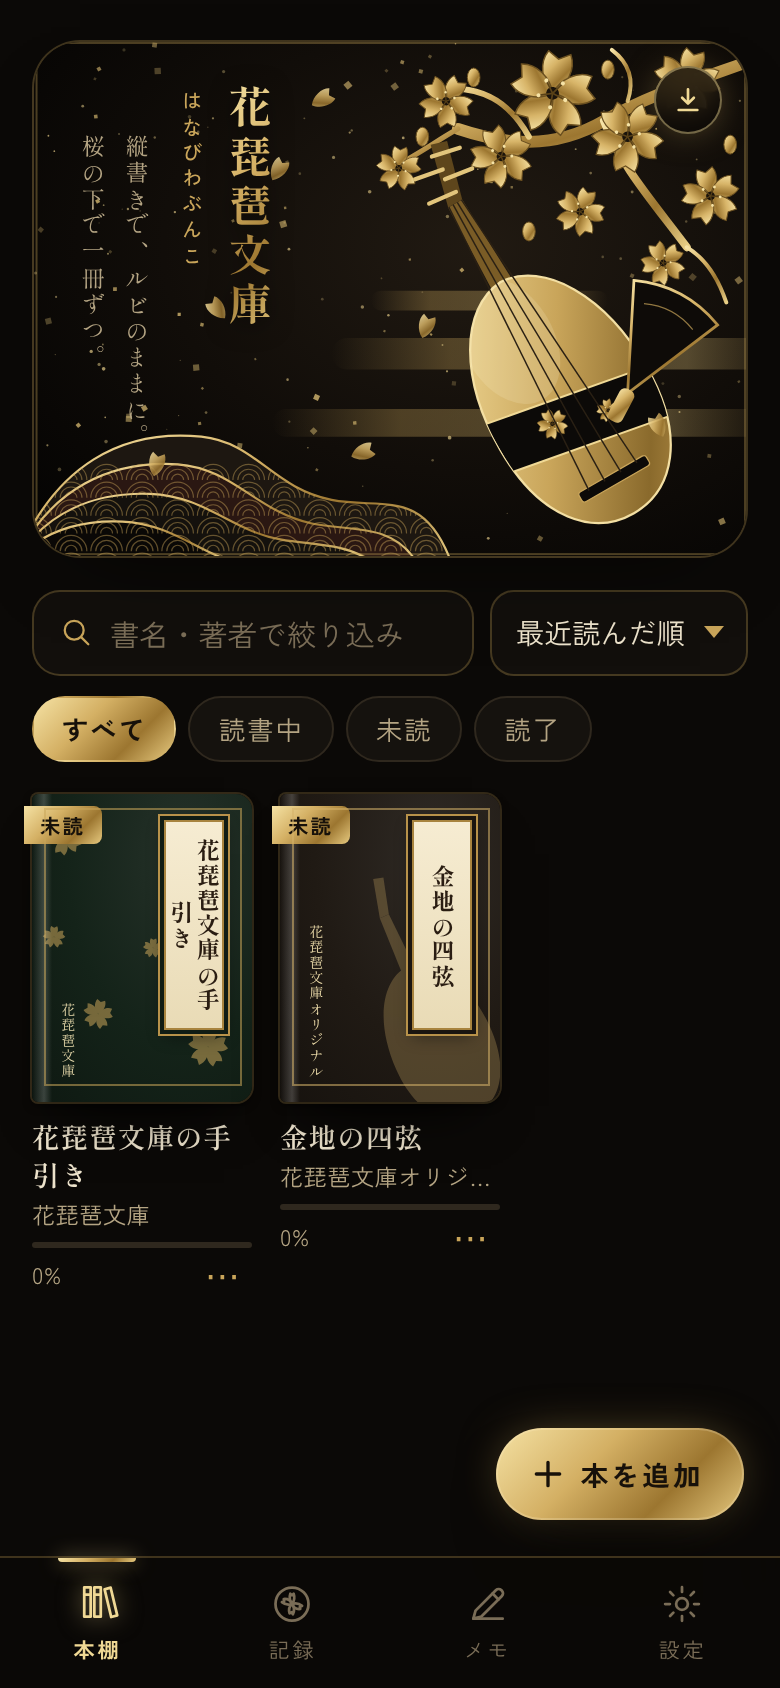
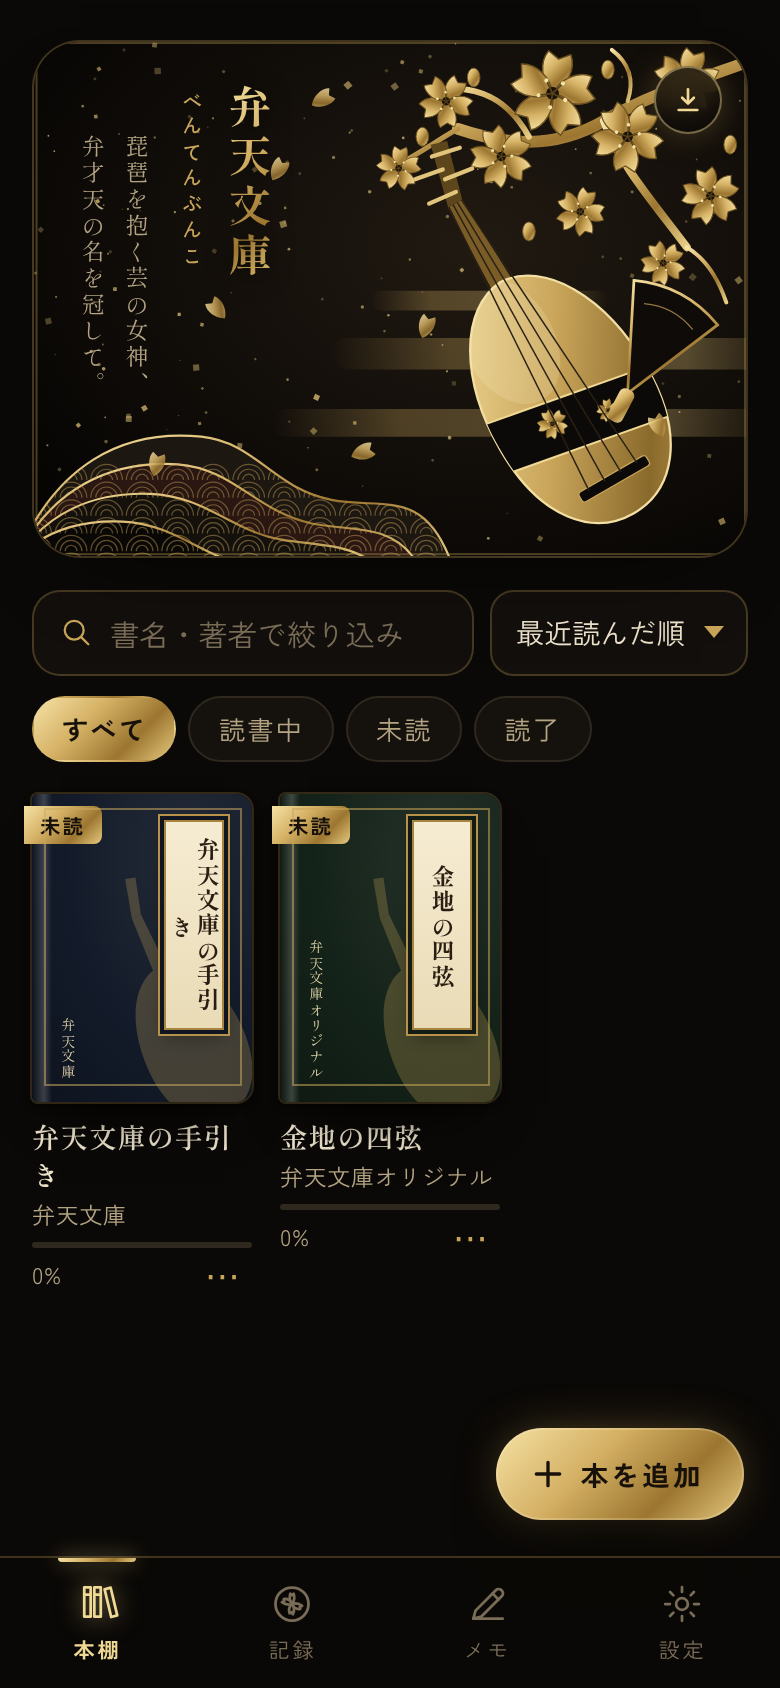
アプリ名を弁才天にちなんだ「弁天文庫」に変更
琵琶を抱く芸能と学問の女神・弁才天から。表示名・マニフェスト・付属の本・説明を更新し、
旧名で保存済みの付属の本の書名も自動で新しい名前にそろえる。保存データの内部名は変えない。

Claude-Session: https://claude.ai/code/session_013bD7vHSvnvCdFboDHAp8ex

diff --git a/biwa/js/app.js b/biwa/js/app.js
@@ -190,11 +190,26 @@ async function importFiles(files) {
   if (added) { closeSheet(); go("library"); }
 }
 
+// 旧名「花琵琶文庫」で入れた付属の本を新しい名前にそろえる
+async function migrateNames() {
+  const OLD = "\u82b1\u7435\u7436\u6587\u5eab"; // 花琵琶文庫
+  for (const b of books) {
+    if (!b.builtin) continue;
+    const t = b.title.replace(OLD, "弁天文庫");
+    const a = (b.author || "").replace(OLD, "弁天文庫");
+    if (t !== b.title || a !== b.author) {
+      b.title = t;
+      b.author = a;
+      await db.putBook(b);
+    }
+  }
+}
+
 async function seedBooks() {
   if (localStorage.getItem("hb.seeded")) return;
   const story = parseAozora(SAMPLE_STORY, "金地の四弦.txt");
   await saveParsed(story, { builtin: true, added: Date.now() - 1000 });
-  const guide = parseAozora(SAMPLE_GUIDE, "花琵琶文庫の手引き.txt");
+  const guide = parseAozora(SAMPLE_GUIDE, "弁天文庫の手引き.txt");
   await saveParsed(guide, { builtin: true, added: Date.now() });
   localStorage.setItem("hb.seeded", "1");
 }
@@ -1291,7 +1306,7 @@ function download(name, text, type = "text/plain") {
 function exportNotes(list) {
   if (!list.length) { toast("書き出すメモがありません"); return; }
   const colors = { 1: "桜", 2: "山吹", 3: "若草", 4: "藤" };
-  let md = `# 花琵琶文庫 マーカーとメモ\n\n書き出した日：${fmtDate(Date.now())}\n\n`;
+  let md = `# 弁天文庫 マーカーとメモ\n\n書き出した日：${fmtDate(Date.now())}\n\n`;
   for (const b of list) {
     md += `## ${b.title}${b.author ? ` / ${b.author}` : ""}\n\n`;
     for (const h of [...b.highlights].sort((x, y) => x.sec - y.sec || x.start - y.start)) {
@@ -1301,7 +1316,7 @@ function exportNotes(list) {
       md += "\n";
     }
   }
-  download(`花琵琶文庫_メモ_${todayKey()}.md`, md, "text/markdown");
+  download(`弁天文庫_メモ_${todayKey()}.md`, md, "text/markdown");
   toast("メモを書き出しました");
 }
 
@@ -1362,7 +1377,7 @@ function openInstallGuide() {
   const body = openSheet("アプリをインストール", `
     <div class="install-hero">
       <img src="icons/icon-192.png" alt="" />
-      <p class="muted">花琵琶文庫はインストールできるWebアプリです。<b class="installed-note">無料・登録不要</b>で、ストアを通さずに数秒で入ります。</p>
+      <p class="muted">弁天文庫はインストールできるWebアプリです。<b class="installed-note">無料・登録不要</b>で、ストアを通さずに数秒で入ります。</p>
     </div>
     ${installEvt ? '<button class="btn btn-primary full" id="doInstall">いますぐインストール</button>' : ""}
     <ol class="install-steps">${steps.map((t) => `<li>${t}</li>`).join("")}</ol>
@@ -1393,7 +1408,7 @@ async function renderSettings() {
   $("#settingsBody").innerHTML = `
     <section class="card">
       <h3 class="card-title">使い方</h3>
-      <p class="muted">はじめての方は、本棚の『花琵琶文庫の手引き』をどうぞ。読みながら操作を覚えられます。</p>
+      <p class="muted">はじめての方は、本棚の『弁天文庫の手引き』をどうぞ。読みながら操作を覚えられます。</p>
       <ul class="howto">
         <li><b>ページをめくる</b>：縦書きは左をタップで次へ、横書きは右をタップで次へ。スワイプ・矢印キー・ホイールも使えます。</li>
         <li><b>メニュー</b>：画面の真ん中をタップ。</li>
@@ -1423,13 +1438,13 @@ async function renderSettings() {
       <input type="file" id="bkFile" accept=".json,application/json" hidden />
     </section>
     <section class="card about">
-      <h3 class="card-title">花琵琶文庫について</h3>
+      <h3 class="card-title">弁天文庫について</h3>
       <p>完全無料・広告なし・登録不要の読書アプリです。通信はフォントの読み込みだけで、読み込んだ本やメモが外へ送られることはありません。</p>
       <p>金地に桜と琵琶の絵、表紙の文様、付属の小説『金地の四弦』と手引きは、すべてこのアプリのための書き下ろしです。</p>
       <p class="muted">書体：しっぽり明朝・Zen オールド明朝・Zen 丸ゴシック・BIZ UDPゴシック・Klee One（いずれも SIL Open Font License）</p>
     </section>`;
   $("#openGuide").onclick = () => {
-    const g = books.find((b) => b.title === "花琵琶文庫の手引き");
+    const g = books.find((b) => b.title === "弁天文庫の手引き");
     if (g) openBook(g.id); else toast("手引きが見つかりません。「付属の本をもう一度入れる」をお試しください。");
   };
   $("#setInstall")?.addEventListener("click", installApp);
@@ -1462,14 +1477,14 @@ async function exportBackup() {
     books,
     contents: withBooks ? await db.allContents() : [],
   };
-  download(`花琵琶文庫_バックアップ_${todayKey()}.json`, JSON.stringify(data), "application/json");
+  download(`弁天文庫_バックアップ_${todayKey()}.json`, JSON.stringify(data), "application/json");
   toast("バックアップを書き出しました");
 }
 
 async function importBackup(file) {
   try {
     const data = JSON.parse(await file.text());
-    if (data.app !== "hanabiwa-bunko") throw new Error("花琵琶文庫のバックアップではありません");
+    if (data.app !== "hanabiwa-bunko") throw new Error("弁天文庫のバックアップではありません");
     const contents = new Map((data.contents || []).map((c) => [c.id, c]));
     let n = 0;
     for (const b of data.books || []) {
@@ -1573,6 +1588,7 @@ async function init() {
   requestPersist();
   try {
     await loadBooks();
+    await migrateNames();
     await seedBooks();
   } catch (e) {
     console.error(e);

diff --git a/biwa/js/samples.js b/biwa/js/samples.js
@@ -2,7 +2,7 @@
 // 青空文庫形式の記法（ルビ・傍点・見出し）で書いてあり、読み込みの見本も兼ねている。
 
 export const SAMPLE_STORY = `金地の四弦
-花琵琶文庫オリジナル
+弁天文庫オリジナル
 -------------------------------------------------------
 【テキスト中に現れる記号について】
 
@@ -206,12 +206,12 @@ export const SAMPLE_STORY = `金地の四弦
 
 ［＃地付き］（了）
 
-底本：花琵琶文庫のための書き下ろし
-※この作品は、花琵琶文庫に収録された完全オリジナルの短編です。登場する人物・団体・作品はすべて架空のものです。
+底本：弁天文庫のための書き下ろし
+※この作品は、弁天文庫に収録された完全オリジナルの短編です。登場する人物・団体・作品はすべて架空のものです。
 `;
 
-export const SAMPLE_GUIDE = `花琵琶文庫の手引き
-花琵琶文庫
+export const SAMPLE_GUIDE = `弁天文庫の手引き
+弁天文庫
 -------------------------------------------------------
 【テキスト中に現れる記号について】
 
@@ -221,8 +221,8 @@ export const SAMPLE_GUIDE = `花琵琶文庫の手引き
 
 ［＃３字下げ］はじめに［＃「はじめに」は中見出し］
 
-　ようこそ、｜花琵琶文庫《はなびわぶんこ》へ。
-　金屏風の前で琵琶を弾く人のように、ゆっくり一冊と向き合うための読書アプリです。広告はありません。登録もいりません。読み込んだ本や書き込んだメモは、すべてこの端末の中だけ［＃「この端末の中だけ」に傍点］に保存され、どこにも送られません。
+　ようこそ、｜弁天文庫《べんてんぶんこ》へ。
+　名前は、琵琶を抱く芸能と学問の女神、｜弁才天《べんざいてん》から。黒漆に金の蒔絵の前で琵琶を弾く人のように、ゆっくり一冊と向き合うための読書アプリです。広告はありません。登録もいりません。読み込んだ本や書き込んだメモは、すべてこの端末の中だけ［＃「この端末の中だけ」に傍点］に保存され、どこにも送られません。
 　この手引きも、本と同じように読めます。画面の左右をタップすると、ページがめくれます。
 
 ［＃３字下げ］本を入れる［＃「本を入れる」は中見出し］
@@ -248,7 +248,7 @@ export const SAMPLE_GUIDE = `花琵琶文庫の手引き
 ［＃３字下げ］表示を整える［＃「表示を整える」は中見出し］
 
 　メニューの「表示」から、縦書き・横書き、ページめくり・スクロール、書体、文字の大きさ、行間、字間、余白、色、明るさを変えられます。
-　色は「金屏風」「生成り」「桜」「藤」「夜桜」「墨」の六つ。夜は「夜桜」か「墨」がおすすめです。
+　色は「漆」「金屏風」「生成り」「桜」「藤」「夜桜」「墨」の七つ。はじめは黒漆に金の「漆」です。
 　縦書きでは、二桁までの数字や「!?」が自動で｜縦中横《たてちゅうよこ》になります。たとえば、12月25日。
 
 ［＃３字下げ］マーカーとメモ、栞［＃「マーカーとメモ、栞」は中見出し］
@@ -270,9 +270,9 @@ export const SAMPLE_GUIDE = `花琵琶文庫の手引き
 ［＃３字下げ］データとプライバシー［＃「データとプライバシー」は中見出し］
 
 　本、栞、マーカー、記録は、すべてこの端末のブラウザの中に保存されます。機種変更のときは「設定」から書き出し（バックアップ）を作って、新しい端末で読み込んでください。
-　ホーム画面に追加すると、電波のない場所でも読めます。
+　本棚の右上の「アプリをインストール」から、端末にアプリとして入れられます。ホーム画面から開けて、電波のない場所でも読めます。
 
 ［＃地付き］よい読書を。
 
-底本：花琵琶文庫のための書き下ろし
+底本：弁天文庫のための書き下ろし
 `;

diff --git a/index.html b/index.html
@@ -3,8 +3,8 @@
 <head>
 <meta charset="UTF-8" />
 <meta name="viewport" content="width=device-width, initial-scale=1, viewport-fit=cover, maximum-scale=1" />
-<title>和風アプリ集 - 京の家計帖 / つみたての桜 / 栞PDF / ブル手帖 / 志野図鑑 / つるん団子 / かさね札 / 銀ぶらIQテスト / QR早見帖 / うつし鏡 / 免許みちしるべ / 信州まちしるべ / 花琵琶文庫</title>
-<meta name="description" content="和風・水彩画風デザインのアプリ集。京の家計帖（家計簿）、つみたての桜（新NISAシミュレーター）、栞PDF（無料PDF編集）、ブル手帖（ブルドッグと暮らす記録アプリ）、志野図鑑（志野焼の歴史・名品がわかる図鑑アプリ）、つるん団子（落ち物パズルゲーム）、かさね札（クロンダイク・ソリティア）、銀ぶらIQテスト（銀座トリビア＆ひっかけクイズ）、QR早見帖（無料QRコードスキャナー）、うつし鏡（顔年齢・肌年齢・顔タイプ診断）、免許みちしるべ（自動車免許の学科問題・標識・教習記録）、信州まちしるべ（長野県77市町村の魅力・名物・美術館・道の駅・ご当地そば・住民の人柄）、花琵琶文庫（縦書き・ルビ対応の読書アプリ）を選んで開けます。" />
+<title>和風アプリ集 - 京の家計帖 / つみたての桜 / 栞PDF / ブル手帖 / 志野図鑑 / つるん団子 / かさね札 / 銀ぶらIQテスト / QR早見帖 / うつし鏡 / 免許みちしるべ / 信州まちしるべ / 弁天文庫</title>
+<meta name="description" content="和風・水彩画風デザインのアプリ集。京の家計帖（家計簿）、つみたての桜（新NISAシミュレーター）、栞PDF（無料PDF編集）、ブル手帖（ブルドッグと暮らす記録アプリ）、志野図鑑（志野焼の歴史・名品がわかる図鑑アプリ）、つるん団子（落ち物パズルゲーム）、かさね札（クロンダイク・ソリティア）、銀ぶらIQテスト（銀座トリビア＆ひっかけクイズ）、QR早見帖（無料QRコードスキャナー）、うつし鏡（顔年齢・肌年齢・顔タイプ診断）、免許みちしるべ（自動車免許の学科問題・標識・教習記録）、信州まちしるべ（長野県77市町村の魅力・名物・美術館・道の駅・ご当地そば・住民の人柄）、弁天文庫（縦書き・ルビ対応の読書アプリ）を選んで開けます。" />
 <meta name="theme-color" content="#f6efe1" media="(prefers-color-scheme: light)" />
 <meta name="theme-color" content="#211d19" media="(prefers-color-scheme: dark)" />
 <link rel="icon" type="image/png" sizes="32x32" href="nisa/icons/favicon-32.png" />
@@ -246,7 +246,7 @@
     <a class="app-card" href="./biwa/">
       <span class="app-emblem biwa" aria-hidden="true">📖</span>
       <span class="app-info">
-        <h2>花琵琶文庫</h2>
+        <h2>弁天文庫</h2>
         <p>黒漆に金の蒔絵。縦書き・ルビにこだわった、インストールできる完全無料の読書アプリ。青空文庫ZIP・EPUB・TXTを読み込み、マーカーとメモ、栞、全文検索、音読、読書記録まで端末内だけで。</p>
       </span>
       <span class="app-arrow" aria-hidden="true">→</span>

diff --git a/biwa/index.html b/biwa/index.html
@@ -3,7 +3,7 @@
 <head>
 <meta charset="UTF-8" />
 <meta name="viewport" content="width=device-width, initial-scale=1, viewport-fit=cover" />
-<title>花琵琶文庫 - 縦書き・ルビ対応の無料読書アプリ</title>
+<title>弁天文庫 - 縦書き・ルビ対応の無料読書アプリ</title>
 <meta name="description" content="金屏風に桜と琵琶。縦書き・ルビ・青空文庫ZIP・EPUB・TXTに対応した、広告なし・登録不要・完全無料の読書アプリ。マーカーとメモ、栞、全文検索、音読、読書記録まで端末内だけで。" />
 <meta name="theme-color" content="#0b0907" />
 <meta name="color-scheme" content="dark" />
@@ -15,7 +15,7 @@
 <meta name="apple-mobile-web-app-capable" content="yes" />
 <meta name="mobile-web-app-capable" content="yes" />
 <meta name="apple-mobile-web-app-status-bar-style" content="black-translucent" />
-<meta name="apple-mobile-web-app-title" content="花琵琶文庫" />
+<meta name="apple-mobile-web-app-title" content="弁天文庫" />
 
 <link rel="preconnect" href="https://fonts.googleapis.com" />
 <link rel="preconnect" href="https://fonts.gstatic.com" crossorigin />
@@ -36,8 +36,8 @@
       <button id="installBtn" class="install-pill" hidden><svg class="ico " viewBox="0 0 24 24" fill="none" stroke="currentColor" stroke-width="1.5" stroke-linecap="round" stroke-linejoin="round" aria-hidden="true"><path d="M12 4v10.5M7.6 10.3L12 14.7l4.4-4.4M5 19.5h14"/></svg><span>アプリをインストール</span></button>
       <div id="heroArt" class="hero-art" aria-hidden="true"></div>
       <div class="hero-text">
-        <h1 class="brand"><span class="brand-main">花琵琶文庫</span><span class="brand-kana">はなびわぶんこ</span></h1>
-        <p class="hero-sub">縦書きで、ルビのままに。<br />桜の下で一冊ずつ。</p>
+        <h1 class="brand"><span class="brand-main">弁天文庫</span><span class="brand-kana">べんてんぶんこ</span></h1>
+        <p class="hero-sub">琵琶を抱く芸の女神、<br />弁才天の名を冠して。</p>
       </div>
     </header>
 

diff --git a/biwa/css/style.css b/biwa/css/style.css
@@ -1,4 +1,4 @@
-/* 花琵琶文庫 ─ 黒漆と金。蒔絵の桜と琵琶 */
+/* 弁天文庫 ─ 黒漆と金。蒔絵の桜と琵琶 */
 :root {
   --paper: #0b0907;
   --paper-2: #14110d;

diff --git a/biwa/sw.js b/biwa/sw.js
@@ -1,4 +1,4 @@
-const CACHE_NAME = "hanabiwa-bunko-v2";
+const CACHE_NAME = "hanabiwa-bunko-v3";
 const ASSETS = [
   "./",
   "./index.html",

diff --git a/biwa/scripts/make_icons.py b/biwa/scripts/make_icons.py
@@ -1,5 +1,5 @@
 #!/usr/bin/env python3
-"""花琵琶文庫のアイコン（黒漆に金蒔絵の琵琶と桜）を生成する。Pillow使用。"""
+"""弁天文庫のアイコン（黒漆に金蒔絵の琵琶と桜）を生成する。Pillow使用。"""
 import math
 import os
 import random

diff --git a/README.md b/README.md
@@ -17,7 +17,7 @@
 - **[うつし鏡](./kagami/)** - 顔写真から推定年齢（学習済みモデル）・肌スコア・似ている顔タイプを判定し、7項目で肌の状態を記録できる無料の顔年齢チェックアプリ
 - **[免許みちしるべ](./menkyo/)** - 自動車免許の取得に特化した完全無料アプリ。学科〇×問題190問・標識31種の図鑑とクイズ・仮免/本免の模試・教習の進み具合と費用の記録
 - **[信州まちしるべ](./nagano/)** - 長野県の全77市町村の魅力・名物・観光スポット・美術館と博物館・お店・道の駅の有無・ご当地そば・住民の人柄と土地の特徴が、一覧でも長野県の地図でも調べられる無料ガイド
-- **[花琵琶文庫](./biwa/)** - 金屏風に桜と琵琶。縦書き・ルビ対応で、青空文庫ZIP・EPUB・TXTを読める完全無料の読書アプリ（マーカー・メモ・栞・全文検索・音読・読書記録つき）
+- **[弁天文庫](./biwa/)** - 金屏風に桜と琵琶。縦書き・ルビ対応で、青空文庫ZIP・EPUB・TXTを読める完全無料の読書アプリ（マーカー・メモ・栞・全文検索・音読・読書記録つき）
 
 ## 使い方（そのまま試す）
 
@@ -52,6 +52,6 @@ python3 -m http.server 8000
 - `kagami/` - 顔年齢チェックアプリ「うつし鏡」一式
 - `menkyo/` - 自動車免許の取得支援アプリ「免許みちしるべ」一式
 - `nagano/` - 長野県77市町村ガイド「信州まちしるべ」一式
-- `biwa/` - 縦書き読書アプリ「花琵琶文庫」一式
+- `biwa/` - 縦書き読書アプリ「弁天文庫」一式
 
 各アプリフォルダの中身（`index.html` / `css/` / `js/` / `manifest.webmanifest` / `sw.js` / `icons/` / `scripts/`）は、そのアプリだけで完結した構成になっています。詳しくは各フォルダ内の README を参照してください。

diff --git a/biwa/README.md b/biwa/README.md
@@ -1,4 +1,4 @@
-# 花琵琶文庫（はなびわぶんこ）
+# 弁天文庫（べんてんぶんこ）
 
 黒漆に金の蒔絵で描いた桜と琵琶。縦書き・ルビにこだわった、完全無料・広告なし・登録不要の読書アプリ（インストールできるPWA）です。
 本もメモも記録もすべて端末内（IndexedDB / localStorage）に保存され、サーバーには送信されません。
@@ -23,7 +23,7 @@
 
 ## 付属の本
 
-- 『花琵琶文庫の手引き』…使い方の本（青空文庫記法の見本を兼ねる）
+- 『弁天文庫の手引き』…使い方の本（青空文庫記法の見本を兼ねる）
 - 『金地の四弦』…このアプリのための書き下ろし短編（完全オリジナル）
 
 ## 技術構成
